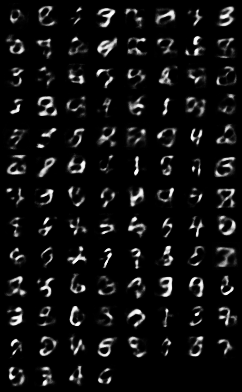
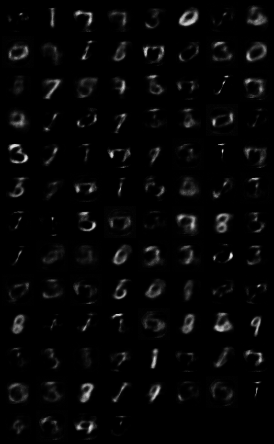
ERROR

diff --git a/deprecated/mnist_binary_vae/mnist_tompkin_net.py b/deprecated/mnist_binary_vae/mnist_tompkin_net.py
@@ -14,16 +14,16 @@ import operator
 # HyperParameters
 learning_rate = 0.001
 num_epochs = 4
-im_sz = 784 # size of the image
+im_side = 32
+im_sz = im_side*im_side # size of the image
 z_sz = 20 # z = [z_style, z_content]
-enc_fc1_sz = 400
 dec_fc1_sz = 400
 batch_sz = 100
 
 # MNIST dataset
 dataset = datasets.MNIST(root='./data',
                          train=True,
-                         transform=transforms.ToTensor(),
+                         transform=transforms.Compose([torchvision.transforms.Pad(2),transforms.ToTensor()]),
                          download=True)
 
 # Data loader
@@ -43,19 +43,36 @@ class TompkinNet(nn.Module):
         super(TompkinNet, self).__init__()
 
         # Encoder Layers
-        self.enc_fc1 = nn.Linear(im_sz, enc_fc1_sz)
-        self.enc_fc2 = nn.Linear(enc_fc1_sz, int(2*z_sz))
+        self.conv1 = nn.Conv2d(1, 6, 5)
+        self.conv2 = nn.Conv2d(6, 16, 5)
+        self.fc1 = nn.Linear(16 * 5 * 5, 120)
+        self.fc2 = nn.Linear(120, 84)
+        self.fc3 = nn.Linear(84, 2*z_sz)
 
         # Decoder Layers
         self.dec_fc1 = nn.Linear(z_sz, dec_fc1_sz)
         self.dec_fc2 = nn.Linear(dec_fc1_sz, im_sz)
 
         # Link Layers
-        self.link_fc1 = nn.Linear(z_sz,2)
+        self.link_fc1 = nn.Linear(z_sz,32)
+        self.link_fc2 = nn.Linear(32,2)
 
-    # FC -> Leaky Relu -> Fc
+    # LeNet
     def encode(self,x):
-        return self.enc_fc2(F.leaky_relu(self.enc_fc1(x),0.2))
+        x = F.max_pool2d(F.relu(self.conv1(x)), (2, 2))
+        x = F.max_pool2d(F.relu(self.conv2(x)), 2)
+        x = x.view(-1, self.num_flat_features(x))
+        x = F.relu(self.fc1(x))
+        x = F.relu(self.fc2(x))
+        x = self.fc3(x)
+        return x
+
+    def num_flat_features(self, x):
+        size = x.size()[1:]
+        num_features = 1
+        for s in size:
+            num_features *= s
+        return num_features
 
     # FC -> Relu -> FC -> Sigmoid
     def decode(self,x):
@@ -63,7 +80,7 @@ class TompkinNet(nn.Module):
 
     # FC -> Sigmoid
     def linknet(self, x):
-        return F.sigmoid(self.link_fc1(x))
+        return F.sigmoid(self.link_fc2(F.relu(self.link_fc1(x))))
 
     # Reperam Trick (See paper)
     def reperam(self,mu,logvar):
@@ -115,24 +132,25 @@ data_iter = iter(data_loader)
 fixed_z = to_var(torch.randn(100, z_sz))
 fixed_x, _ = next(data_iter)
 torchvision.utils.save_image(fixed_x.cpu(), './data/real_images.png')
-fixed_x = to_var(fixed_x.view(fixed_x.size(0), -1))
+fixed_x = to_var(fixed_x)
 
 # For Plotting
 KL_ = []
 XEnt_ = []
 Linkloss_ = []
+Linkaccuracy_ = []
 L_ = []
 
 
 for epoch in range(num_epochs):
     for batch_idx, (data, labels) in enumerate(data_loader):
-        images = to_var(data.view(data.size(0), -1))
+        images = to_var(data)
         images1, images2 = torch.chunk(images, 2, dim=0)
         labels1, labels2 = torch.chunk(labels, 2, dim=0)
 
         eq_labels_vec = labels1.eq(labels2).float().view(50,1)
         eq_labels_onehot = torch.cat((1-eq_labels_vec, eq_labels_vec), dim=1)
-        eq_labels = Variable(eq_labels_onehot)
+        eq_labels = to_var(eq_labels_onehot)
 
         out1, mu1, logvar1, out2, mu2, logvar2, linkout = tnet(images1, images2)
 
@@ -140,10 +158,19 @@ for epoch in range(num_epochs):
         KL1, XEnt1 = vae_loss(images1, out1, mu1, logvar1)
         KL2, XEnt2 = vae_loss(images2, out2, mu2, logvar2)
         linkloss = link_loss(linkout, eq_labels)
+        linkaccuracy = linkout.max(dim=1)[1].view((batch_sz/2, 1))
+        linkaccuracy = linkaccuracy.eq(eq_labels_vec.long()).sum()
+
+        # ERROR THIS GOES TO 0
+        print(linkout.max(dim=1)[1].view((batch_sz/2, 1)).sum())
+        #print(linkout.max(dim=1)[1].view((batch_sz/2, 1)))
+
+        linkaccuracy /= (batch_sz/2)
 
         KL = KL1 + KL2
         XEnt = XEnt1 + XEnt2
-        L = KL + XEnt + linkloss
+        #L = KL + XEnt + linkloss
+        L = linkloss
 
         # Gradient Stuff
         optimizer.zero_grad()
@@ -153,22 +180,25 @@ for epoch in range(num_epochs):
         KL_.append(KL.item())
         XEnt_.append(XEnt.item())
         Linkloss_.append(linkloss.item())
+        Linkaccuracy_.append(linkaccuracy)
         L_.append(L.item())
 
         if batch_idx % 100 == 0:
             print ("Epoch[%d/%d], Step [%d/%d], Total Loss: %.4f, "
-                   "KL Loss: %.7f, XEnt Loss: %.4f, Link Loss: %.4f"
+                   "KL Loss: %.7f, XEnt Loss: %.4f, Link Loss: %.4f, "
+                   "Link Accuracy %.4f"
                    %(epoch+1, num_epochs, batch_idx+1, iter_per_epoch, L.item(),
-                     KL.item(), XEnt.item(), linkloss.item()))
+                     KL.item(), XEnt.item(), linkloss.item(), linkaccuracy.item()))
+
 
     # Save the reconstructed images
     reconst_images, _, _, _ = tnet.forward_vae(fixed_x)
-    reconst_images = reconst_images.view(reconst_images.size(0), 1, 28, 28)
+    reconst_images = reconst_images.view(reconst_images.size(0), 1, im_side, im_side)
     torchvision.utils.save_image(reconst_images.data.cpu(),
         './data/reconst_images_%d.png' %(epoch+1))
 
     reconst_images = tnet.sample(fixed_z)
-    reconst_images = reconst_images.view(reconst_images.size(0), 1, 28, 28)
+    reconst_images = reconst_images.view(reconst_images.size(0), 1, im_side, im_side)
     torchvision.utils.save_image(reconst_images.data.cpu(),
         './data/sample_%d.png' %(epoch+1))
 
@@ -176,6 +206,7 @@ for epoch in range(num_epochs):
 plt.plot(KL_, label="KL Loss")
 plt.plot(XEnt_, label="XEnt Loss")
 plt.plot(Linkloss_, label="Linked Loss")
+plt.plot(Linkaccuracy_, label="Linked Accuracy")
 plt.plot(L_, label="Total Loss")
 
 plt.legend()

diff --git a/deprecated/mnist_binary_vae/bin_vae.py b/deprecated/mnist_binary_vae/bin_vae.py
@@ -12,7 +12,7 @@ import math
 
 # HyperParameters
 learning_rate = 0.001
-num_epochs = 3
+num_epochs = 100
 im_sz = 784 # size of the image
 z_sz = 4 # note that z = [z_mu, z_logvar]
 enc_fc1_sz = 400
